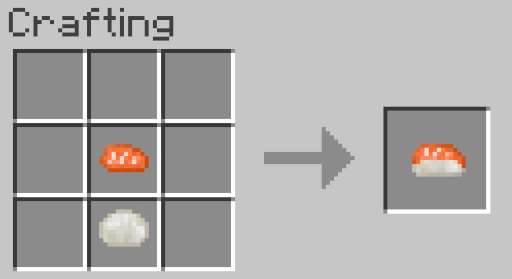
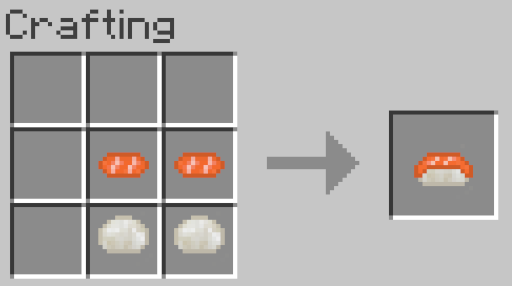
retexturing

diff --git a/src/main/java/net/la/lega/mod/loader/LaLegaLoader.java b/src/main/java/net/la/lega/mod/loader/LaLegaLoader.java
@@ -11,6 +11,7 @@ import net.la.lega.mod.entity.BlastChillerBlockEntity;
 import net.la.lega.mod.entity.ThreadCutterBlockEntity;
 import net.la.lega.mod.gui.controller.BlastChillerBlockController;
 import net.la.lega.mod.gui.controller.ThreadCutterBlockController;
+import net.la.lega.mod.item.HosomakiSake;
 import net.la.lega.mod.item.NigiriSake;
 import net.la.lega.mod.item.RiceItem;
 import net.la.lega.mod.item.SalmonFilletItem;
@@ -27,9 +28,13 @@ import net.minecraft.item.BlockItem;
 import net.minecraft.item.FoodComponent;
 import net.minecraft.item.Item;
 import net.minecraft.item.ItemGroup;
+import net.minecraft.sound.SoundEvent;
 import net.minecraft.util.Identifier;
 import net.minecraft.util.registry.Registry;
 
+
+// MinecartSoundInstance
+// MinecartEntity
 // DropperBlock
 // HopperBlock
 // FurnaceBlockEntity
@@ -53,7 +58,12 @@ import net.minecraft.util.registry.Registry;
 public class LaLegaLoader implements ModInitializer
 {
     public static final String MOD_ID = "lalegamod";
+    
+    //SOUND EVENTS
+    public static SoundEvent THREAD_CUTTER_CUT_SOUNDEVENT = new SoundEvent(ThreadCutterBlock.CUT_SOUND);
+    public static SoundEvent BLAST_CHILLER_HUM_SOUNDEVENT = new SoundEvent(BlastChillerBlock.HUM_SOUND);
 
+    //#region ITEMS
     //Items
     public static final Item SASHIMI_ITEM = new SashimiItem(
         new Item.Settings().group(ItemGroup.FOOD)
@@ -87,8 +97,17 @@ public class LaLegaLoader implements ModInitializer
     .food(new FoodComponent.Builder()
         .hunger(NigiriSake.hunger)
         .saturationModifier(NigiriSake.saturation)
-        .snack().alwaysEdible()
+        .alwaysEdible()
     .build()));
+
+    public static final Item HOSOMAKI_SAKE_ITEM = new HosomakiSake(
+        new Item.Settings().group(ItemGroup.FOOD)
+        .food(new FoodComponent.Builder()
+            .hunger(HosomakiSake.hunger)
+            .saturationModifier(HosomakiSake.saturation)
+            .snack().alwaysEdible()
+        .build()));
+//#endregion
 
     //Blocks
     public static final Block LAUNCHER_BLOCK = new LauncherBlock();
@@ -110,6 +129,7 @@ public class LaLegaLoader implements ModInitializer
         registerEntities();
         registerRecipes();
         registerControllers();
+        registerSounds();
     }
 
     private void registerItems()
@@ -118,6 +138,7 @@ public class LaLegaLoader implements ModInitializer
         Registry.register(Registry.ITEM, SalmonFilletItem.ID, SALMON_FILLET_ITEM);
         Registry.register(Registry.ITEM, RiceItem.ID, RICE_ITEM);
         Registry.register(Registry.ITEM, NigiriSake.ID, NIGIRI_SAKE_ITEM);
+        Registry.register(Registry.ITEM, HosomakiSake.ID, HOSOMAKI_SAKE_ITEM);
     }
 
     private void registerBlocks()
@@ -162,5 +183,11 @@ public class LaLegaLoader implements ModInitializer
         ContainerProviderRegistry.INSTANCE.registerFactory(ThreadCutterBlock.ID, 
             (syncId, id, player, buf) -> new ThreadCutterBlockController(syncId, player.inventory, BlockContext.create(player.world, buf.readBlockPos()))
         );
+    }
+
+    private void registerSounds()
+    {
+        Registry.register(Registry.SOUND_EVENT, ThreadCutterBlock.CUT_SOUND, THREAD_CUTTER_CUT_SOUNDEVENT);
+        Registry.register(Registry.SOUND_EVENT, BlastChillerBlock.HUM_SOUND, BLAST_CHILLER_HUM_SOUNDEVENT);
     }
 }

diff --git a/src/main/java/net/la/lega/mod/block/BlastChillerBlock.java b/src/main/java/net/la/lega/mod/block/BlastChillerBlock.java
@@ -1,14 +1,20 @@
 package net.la.lega.mod.block;
 
+import java.util.Random;
+
+import net.fabricmc.api.EnvType;
+import net.fabricmc.api.Environment;
 import net.fabricmc.fabric.api.block.FabricBlockSettings;
 import net.fabricmc.fabric.api.container.ContainerProviderRegistry;
 import net.la.lega.mod.block.abstraction.AbstractBlockWithEntity;
 import net.la.lega.mod.entity.BlastChillerBlockEntity;
+import net.la.lega.mod.loader.LaLegaLoader;
 import net.minecraft.block.BlockState;
 import net.minecraft.block.entity.BlockEntity;
 import net.minecraft.entity.player.PlayerEntity;
 import net.minecraft.item.ItemPlacementContext;
 import net.minecraft.sound.BlockSoundGroup;
+import net.minecraft.sound.SoundCategory;
 import net.minecraft.state.StateManager;
 import net.minecraft.state.property.BooleanProperty;
 import net.minecraft.state.property.DirectionProperty;
@@ -27,7 +33,8 @@ import net.minecraft.world.World;
 public class BlastChillerBlock extends AbstractBlockWithEntity
 {
 
-    public static final Identifier ID = new Identifier("lalegamod", "blast_chiller");
+    public static final Identifier ID = new Identifier(LaLegaLoader.MOD_ID, "blast_chiller");
+    public static final Identifier HUM_SOUND = new Identifier(LaLegaLoader.MOD_ID, "blast_chiller_hum");
 
     public static final BooleanProperty ON;    
     public static final DirectionProperty FACING;
@@ -36,6 +43,8 @@ public class BlastChillerBlock extends AbstractBlockWithEntity
         ON = BooleanProperty.of("on");
         FACING = HorizontalFacingBlock.FACING;
     }
+
+
 
     public BlastChillerBlock() 
     {
@@ -84,4 +93,19 @@ public class BlastChillerBlock extends AbstractBlockWithEntity
         return state.rotate(mirror.getRotation((Direction)state.get(FACING)));
     }
 
+    
+    @Environment(EnvType.CLIENT)
+    public void randomDisplayTick(BlockState state, World world, BlockPos pos, Random random) 
+    {
+        if((Boolean)state.get(ON)) 
+        {
+            double d = (double)pos.getX() + 0.5D;
+            double e = (double)pos.getY();
+            double f = (double)pos.getZ() + 0.5D;
+            if (random.nextDouble() < 0.175D) 
+            {
+               world.playSound(d, e, f, LaLegaLoader.BLAST_CHILLER_HUM_SOUNDEVENT, SoundCategory.BLOCKS, 0.7F, 1.1F, false);
+            }
+        }
+    }
 }

diff --git a/src/main/java/net/la/lega/mod/entity/ThreadCutterBlockEntity.java b/src/main/java/net/la/lega/mod/entity/ThreadCutterBlockEntity.java
@@ -7,6 +7,7 @@ import net.la.lega.mod.recipe.ThreadCuttingRecipe;
 import net.minecraft.entity.ItemEntity;
 import net.minecraft.item.ItemStack;
 import net.minecraft.recipe.Recipe;
+import net.minecraft.sound.SoundCategory;
 import net.minecraft.util.math.BlockPointer;
 import net.minecraft.util.math.BlockPointerImpl;
 import net.minecraft.util.math.Direction;
@@ -114,8 +115,9 @@ public class ThreadCutterBlockEntity extends AbstractProcessingOutputterEntity
             Position position = getOutputLocation(blockPointerImpl);
             ItemStack output = recipe.getOutput();
           
-            blockPointerImpl.getWorld().playLevelEvent(1000, blockPointerImpl.getBlockPos(), 0);
+            //blockPointerImpl.getWorld().playLevelEvent(1000, blockPointerImpl.getBlockPos(), 0);
             spawnItem(blockPointerImpl.getWorld(), output.copy(), 6, direction, position);
+            world.playSound(null, getPos(), LaLegaLoader.THREAD_CUTTER_CUT_SOUNDEVENT, SoundCategory.BLOCKS, 0.035F, 0.85F);
             inputSlot.decrement(1);
         }
     }   

diff --git a/src/main/java/net/la/lega/mod/block/ThreadCutterBlock.java b/src/main/java/net/la/lega/mod/block/ThreadCutterBlock.java
@@ -4,6 +4,7 @@ import net.fabricmc.fabric.api.block.FabricBlockSettings;
 import net.fabricmc.fabric.api.container.ContainerProviderRegistry;
 import net.la.lega.mod.block.abstraction.AbstractBlockWithEntity;
 import net.la.lega.mod.entity.ThreadCutterBlockEntity;
+import net.la.lega.mod.loader.LaLegaLoader;
 import net.minecraft.block.Block;
 import net.minecraft.block.BlockState;
 import net.minecraft.block.FacingBlock;
@@ -27,8 +28,9 @@ import net.minecraft.world.World;
 
 public class ThreadCutterBlock extends AbstractBlockWithEntity 
 {
-    public static final Identifier ID = new Identifier("lalegamod", "thread_cutter");
-  
+    public static final Identifier ID = new Identifier(LaLegaLoader.MOD_ID, "thread_cutter");
+    public static final Identifier CUT_SOUND = new Identifier(LaLegaLoader.MOD_ID, "thread_cutter_cut");
+
     public static final DirectionProperty FACING;
     static
     {

diff --git a/src/main/java/net/la/lega/mod/item/SalmonFilletItem.java b/src/main/java/net/la/lega/mod/item/SalmonFilletItem.java
@@ -1,5 +1,6 @@
 package net.la.lega.mod.item;
 
+import net.la.lega.mod.loader.LaLegaLoader;
 import net.minecraft.entity.effect.StatusEffect;
 import net.minecraft.entity.effect.StatusEffects;
 import net.minecraft.item.Item;
@@ -7,11 +8,11 @@ import net.minecraft.util.Identifier;
 
 public class SalmonFilletItem extends Item
 {
-    public static final Identifier ID = new Identifier("lalegamod", "salmon_fillet");
+    public static final Identifier ID = new Identifier(LaLegaLoader.MOD_ID, "salmon_fillet");
     
     public static final StatusEffect effect = StatusEffects.POISON;
-    public static final int effectDuration = 20 * 8;
-    public static final float effectChance = 0.2F;
+    public static final int effectDuration = 20 * 15;
+    public static final float effectChance = 0.225F;
     public static final float saturation = 0.7F;
     public static final int hunger = 2;
 

diff --git a/src/main/java/net/la/lega/mod/item/HosomakiSake.java b/src/main/java/net/la/lega/mod/item/HosomakiSake.java
@@ -4,14 +4,14 @@ import net.la.lega.mod.loader.LaLegaLoader;
 import net.minecraft.item.Item;
 import net.minecraft.util.Identifier;
 
-public class RiceItem extends Item
+public class HosomakiSake extends Item
 {
-    public static final Identifier ID = new Identifier(LaLegaLoader.MOD_ID, "rice");
+    public static final Identifier ID = new Identifier(LaLegaLoader.MOD_ID, "hosomaki_sake");
     
     public static final float saturation = 0.75F;
-    public static final int hunger = 2;
+    public static final int hunger = 4;
 
-    public RiceItem(Settings settings) 
+    public HosomakiSake(Settings settings) 
     {
         super(settings);
     }

diff --git a/src/main/java/net/la/lega/mod/item/SashimiItem.java b/src/main/java/net/la/lega/mod/item/SashimiItem.java
@@ -10,9 +10,9 @@ public class SashimiItem extends Item
     public static final Identifier ID = new Identifier("lalegamod", "sashimi");
     
     public static final StatusEffect effect = StatusEffects.HUNGER;
-    public static final int effectDuration = 20 * 5;
-    public static final float effectChance = 0.15F;
-    public static final float saturation = 0.6F;
+    public static final int effectDuration = 20 * 8;
+    public static final float effectChance = 0.2F;
+    public static final float saturation = 0.55F;
     public static final int hunger = 2;
 
     public SashimiItem(Settings settings) 

diff --git a/src/main/java/net/la/lega/mod/block/LauncherBlock.java b/src/main/java/net/la/lega/mod/block/LauncherBlock.java
@@ -1,6 +1,7 @@
 package net.la.lega.mod.block;
 
 import net.fabricmc.fabric.api.block.FabricBlockSettings;
+import net.la.lega.mod.loader.LaLegaLoader;
 import net.minecraft.block.Block;
 import net.minecraft.block.Material;
 import net.minecraft.entity.Entity;
@@ -13,7 +14,7 @@ import net.minecraft.world.World;
 
 public class LauncherBlock extends Block 
 {
-   public static final Identifier ID =  new Identifier("lalegamod", "launcher_block");
+   public static final Identifier ID =  new Identifier(LaLegaLoader.MOD_ID, "launcher_block");
 
    private double launchForce = 1F;
 

diff --git a/src/main/java/net/la/lega/mod/item/NigiriSake.java b/src/main/java/net/la/lega/mod/item/NigiriSake.java
@@ -1,14 +1,15 @@
 package net.la.lega.mod.item;
 
+import net.la.lega.mod.loader.LaLegaLoader;
 import net.minecraft.item.Item;
 import net.minecraft.util.Identifier;
 
 public class NigiriSake extends Item
 {
-    public static final Identifier ID = new Identifier("lalegamod", "nigiri_sake");
+    public static final Identifier ID = new Identifier(LaLegaLoader.MOD_ID, "nigiri_sake");
     
     public static final float saturation = 0.9F;
-    public static final int hunger = 4;
+    public static final int hunger = 5;
 
     public NigiriSake(Settings settings) 
     {

diff --git a/src/main/java/net/la/lega/mod/block/ExtremeLauncherBlock.java b/src/main/java/net/la/lega/mod/block/ExtremeLauncherBlock.java
@@ -1,10 +1,11 @@
 package net.la.lega.mod.block;
 
+import net.la.lega.mod.loader.LaLegaLoader;
 import net.minecraft.util.Identifier;
 
 public class ExtremeLauncherBlock extends LauncherBlock
 {
-    public static final Identifier ID = new Identifier("lalegamod", "extreme_launcher_block");
+    public static final Identifier ID = new Identifier(LaLegaLoader.MOD_ID, "extreme_launcher_block");
 
     public ExtremeLauncherBlock()
     {

diff --git a/src/main/java/net/la/lega/mod/block/PoweredLauncherBlock.java b/src/main/java/net/la/lega/mod/block/PoweredLauncherBlock.java
@@ -1,10 +1,11 @@
 package net.la.lega.mod.block;
 
+import net.la.lega.mod.loader.LaLegaLoader;
 import net.minecraft.util.Identifier;
 
 public class PoweredLauncherBlock extends LauncherBlock
 {
-    public static final Identifier ID = new Identifier("lalegamod", "powered_launcher_block");
+    public static final Identifier ID = new Identifier(LaLegaLoader.MOD_ID, "powered_launcher_block");
 
     public PoweredLauncherBlock()
     {
